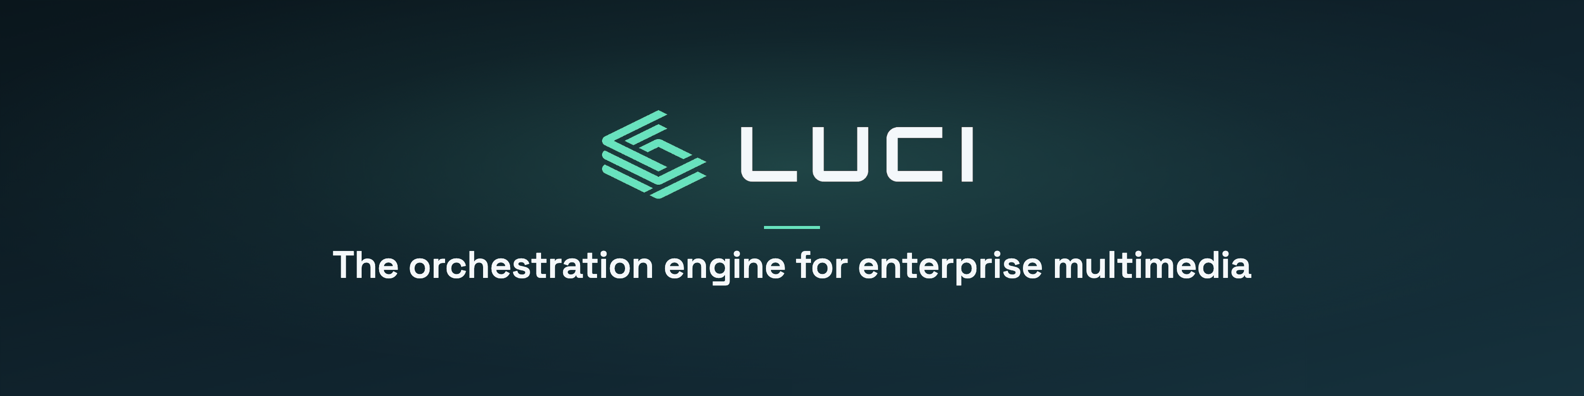
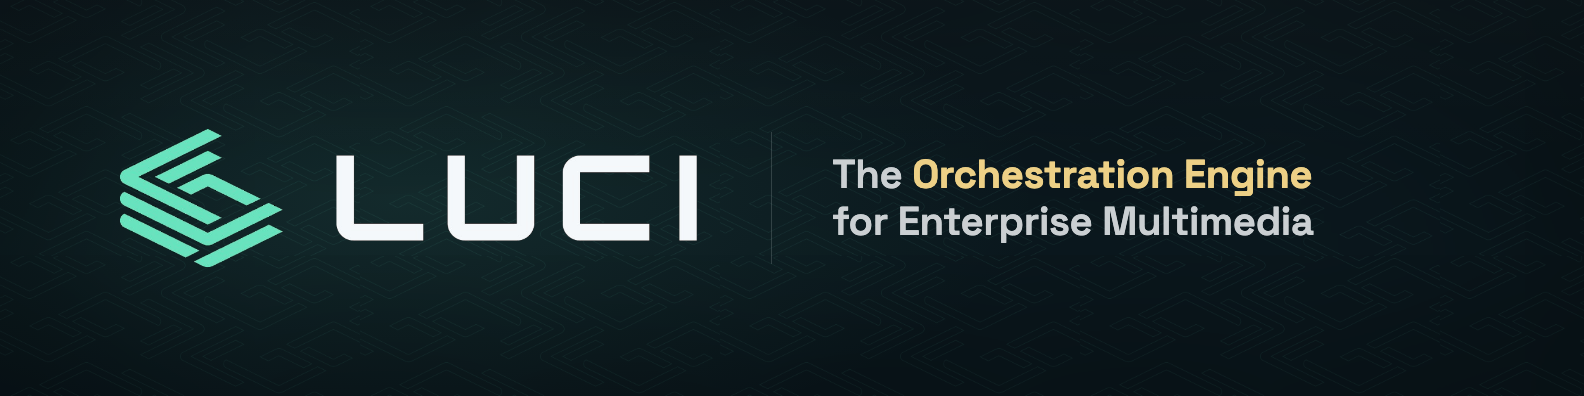
LinkedIn cover: swap background to circuit-navy-mint texture
Replace the mintgold-seamless overlay with the canonical navy-mint circuit
texture (assets/textures/texture-circuit-navy-mint.png), tiled at 360px auto
and ~15% opacity to match the established sales-doc treatment. Re-rendered
@1x and @2x PNGs.

diff --git a/LUCI Systems Design System/assets/social/linkedin-cover.html b/LUCI Systems Design System/assets/social/linkedin-cover.html
@@ -1,0 +1,125 @@
+<!doctype html>
+<html lang="en">
+<head>
+<meta charset="utf-8">
+<title>LUCI — LinkedIn company cover</title>
+<!--
+  LinkedIn company page cover banner.
+  Source: render to linkedin-cover.png (1584x396 @1x) and linkedin-cover@2x.png (3168x792 @2x)
+  via headless Chrome (see scripts/render-linkedin-cover.sh).
+
+  Composition: full LUCI logo (mint mark + white wordmark) left, thin hairline, then the
+  canonical tagline — Space Grotesk 600, off-white at 82%, with "Orchestration Engine"
+  accented in gold #edd086 — matching the live website (src/data/site.ts · HomeHero).
+-->
+<link rel="stylesheet" href="../fonts/luci-brand-fonts.css">
+<style>
+  :root {
+    --navy-deep: #0a161c;
+    --mint: #68e3be;
+    --mint-rgb: 104, 227, 190;
+    --gold: #edd086;
+    --off-white: #f5f8fa;
+  }
+
+  * { margin: 0; padding: 0; box-sizing: border-box; }
+
+  html, body {
+    width: 1584px;
+    height: 396px;
+    overflow: hidden;
+    background: var(--navy-deep);
+  }
+
+  .cover {
+    position: relative;
+    width: 1584px;
+    height: 396px;
+    background: var(--navy-deep);
+    overflow: hidden;
+  }
+
+  /* circuit texture — navy-mint, tiled faint (matches sales-doc treatment: 360px auto, ~13%) */
+  .cover__pattern {
+    position: absolute;
+    inset: 0;
+    background-image: url("../textures/texture-circuit-navy-mint.png");
+    background-repeat: repeat;
+    background-size: 360px auto;
+    opacity: 0.15;
+    pointer-events: none;
+  }
+
+  /* soft mint glow behind the logo for depth (matches prior cover) */
+  .cover__glow {
+    position: absolute;
+    inset: 0;
+    background:
+      radial-gradient(900px 360px at 26% 50%, rgba(var(--mint-rgb), 0.10), transparent 70%),
+      linear-gradient(180deg, rgba(255,255,255,0.018), transparent 40%);
+    pointer-events: none;
+  }
+
+  /* gentle edge vignette to seat the lockup */
+  .cover__vignette {
+    position: absolute;
+    inset: 0;
+    box-shadow: inset 0 0 220px 40px rgba(0,0,0,0.45);
+    pointer-events: none;
+  }
+
+  .cover__lockup {
+    position: relative;
+    z-index: 2;
+    display: flex;
+    align-items: center;
+    height: 100%;
+    padding-left: 120px;
+    padding-right: 96px;
+  }
+
+  .cover__logo {
+    height: 138px;
+    width: auto;
+    flex: 0 0 auto;
+    display: block;
+  }
+
+  .cover__rule {
+    flex: 0 0 auto;
+    width: 1px;
+    height: 132px;
+    margin: 0 60px;
+    background: rgba(245, 248, 250, 0.16);
+  }
+
+  .cover__tagline {
+    font-family: 'Space Grotesk', system-ui, sans-serif;
+    font-weight: 600;
+    font-size: 40px;
+    line-height: 1.18;
+    letter-spacing: -0.01em;
+    color: rgba(245, 248, 250, 0.82);
+    max-width: 600px;
+  }
+
+  .cover__tagline em {
+    font-style: normal;
+    font-weight: 700;
+    color: var(--gold);
+  }
+</style>
+</head>
+<body>
+  <div class="cover">
+    <div class="cover__pattern"></div>
+    <div class="cover__glow"></div>
+    <div class="cover__lockup">
+      <img class="cover__logo" src="../logos/luci-full-mintmark-white.png" alt="LUCI">
+      <div class="cover__rule" aria-hidden="true"></div>
+      <p class="cover__tagline">The <em>Orchestration Engine</em><br>for Enterprise Multimedia</p>
+    </div>
+    <div class="cover__vignette"></div>
+  </div>
+</body>
+</html>
